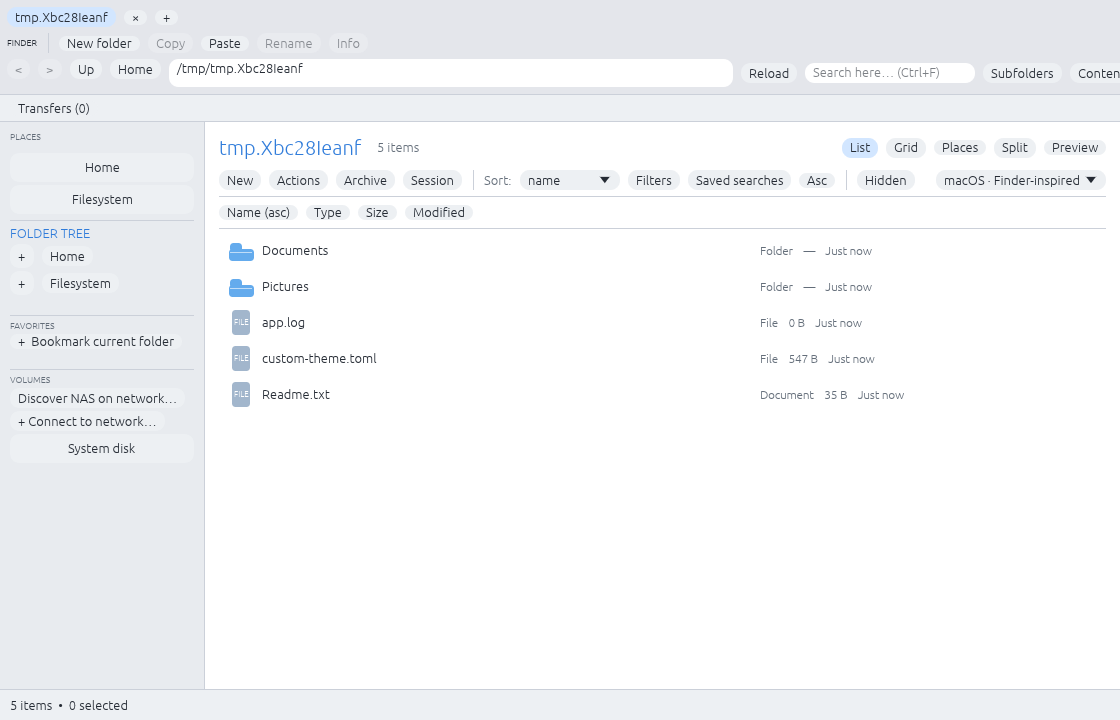
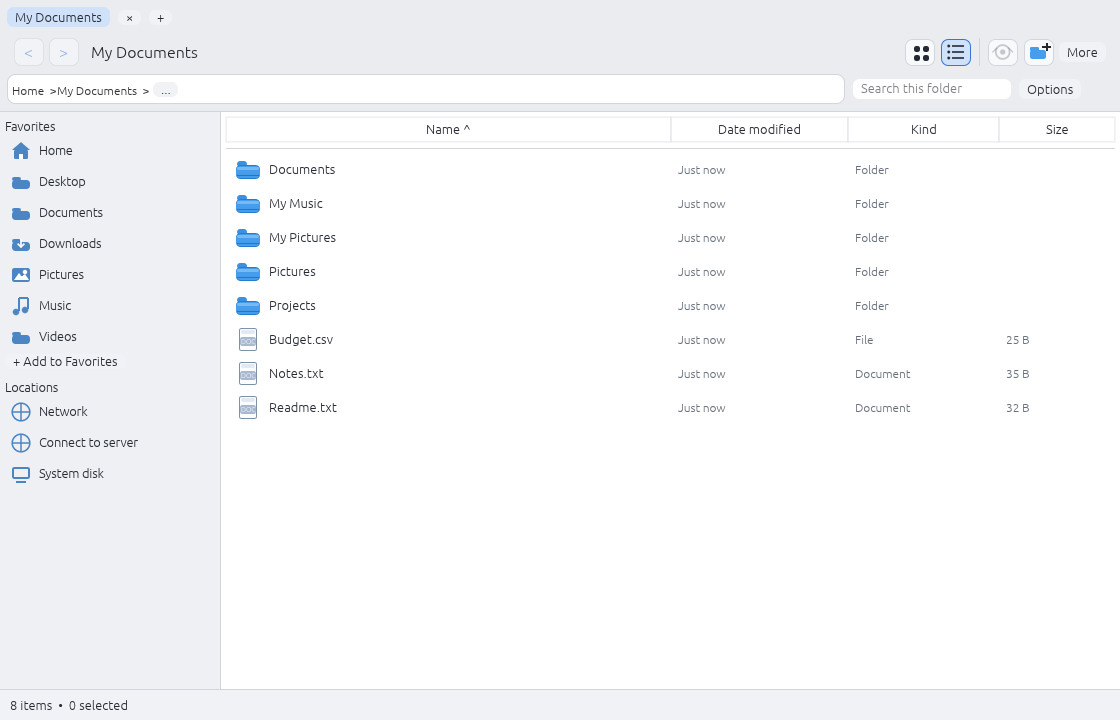
docs(macos): publish six real Finder UI screenshots from green native CI

diff --git a/ROADMAP.md b/ROADMAP.md
@@ -21,9 +21,10 @@ performance, Linux integration, then visual polish.
   available on demand without crowding default Finder.
 - [x] Preserve Linux remote write guards and desktop/RiceBowl window
   decoration ownership. Avoid proprietary Apple artwork and fake iCloud/AirDrop.
-- [ ] Inspect native GUI smoke captures for full, icon view, More menu, split,
-  compact and narrow layouts, then publish unedited screenshots to the
-  README/gallery. The GUI smoke clicks icon view and More controls explicitly.
+- [x] Inspect and publish six unedited native GUI captures for full, icon view,
+  More menu, split, compact and narrow layouts. The GUI smoke explicitly clicks
+  the Finder icon-view and More controls; Rust checks, release build and all
+  seven-theme GUI smoke tests passed on CI run `42295370012` (`46530bb`).
 - [ ] Verify keyboard, interaction, network mounts, scaling, accessibility
   and visual fidelity on the owner's Linux Mint hardware.
 

diff --git a/CHANGELOG.md b/CHANGELOG.md
@@ -13,8 +13,9 @@
   tools on demand so the file surface receives most of the space.
 - Preserve shared file-operation safety, read-only remote locations, TOML
   composition, keyboard controls and desktop-owned window decorations.
-  Native GUI screenshots and physical Linux Mint acceptance are separate
-  verification gates.
+  The native GUI smoke passes with real screenshots of full, icon, More, split,
+  compact and narrow states (CI `42295370012`). Physical Linux Mint and
+  hardware/NAS acceptance remain separate verification gates.
 
 ## Unreleased — Frutiger Aero · Blue Skies Aqua shell
 
